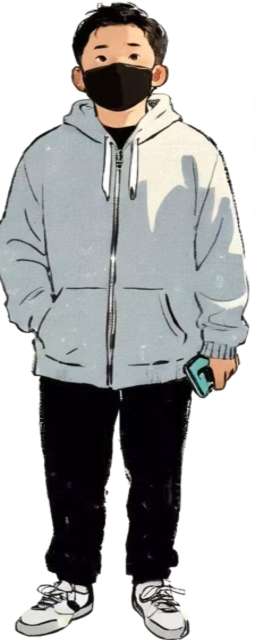
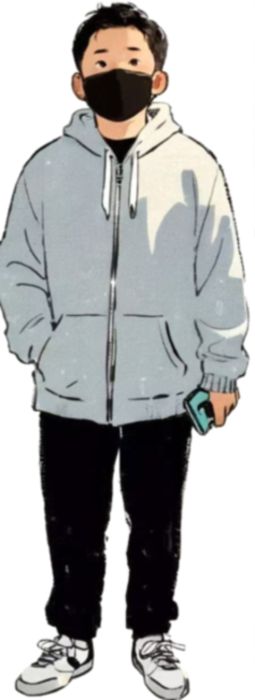
Resize the image

diff --git a/topFivePage/topFivePage.html b/topFivePage/topFivePage.html
@@ -25,34 +25,46 @@
             <li class="items" id="goldenRetriever">golden retriever<br>
                 <img src="img/goldenRetriever.jpg" alt="Light yellow fluffy 
             puppy with droopy ears and wearing a blue collar.">
-                <h4>Photo by Richard Burlton on Unsplash</h4>
+                <a href="https://unsplash.com/photos/golden-retriever-puppy-with-blue-collar-HTpmedSyZag">
+                    <h4>Photo by Richard Burlton on Unsplash</h4>
+                </a>
             </li>
 
             <li class="items" id="border-collie">border collie<br>
                 <img src="img/collie.jpg" alt="The dog's fur color is brown 
             and white with green grass and trees in the background">
-                <h4>Photo by Anna Dudkova on Unsplash</h4>
+                <a href="https://unsplash.com/photos/close-up-photography
+                -of-adult-brown-and-white-border-collie-md2_P9X7t4M">
+                    <h4>Photo by Anna Dudkova on Unsplash</h4>
+                </a>
             </li>
 
             <li class="items" id="samoyed">samoyed<br>
                 <img src="img/samoyed.jpg" alt="White dog lying on a rock by the 
             lake, blue-green water, surrounded by towering mountains, some 
             clouds in the sky">
-                <h4>Photo by Jf Brou on Unsplash</h4>
+                <a href="https://unsplash.com/photos/a-white-dog-sitting-on-a-rock
+                -formation-near-a-large-mountain-pond-915UJQaxtrk">
+                    <h4>Photo by Jf Brou on Unsplash</h4>
+                </a>
             </li>
 
             <li class="items" id="husky">husky<br>
                 <img src="img/siberianHusky.jpg" alt="The Husky sits on the ground
              with a red traction rope around his neck and looks up to the upper
               left. Lots of blinking lights in the background.">
-                <h4>Photo by Gelmis Bartulis on Unsplash</h4>
+                <a href="https://unsplash.com/photos/dog-looking-up-u4kVfgtloAM">
+                    <h4>Photo by Gelmis Bartulis on Unsplash</h4>
+                </a>
             </li>
 
             <li class="items" id="shiba-inu">shiba inu<br>
                 <img src="img/shibaInu.jpg" alt="A Shiba Inu wearing an orange
              carrier stands on a patch of ground covered in red leaves.
               In the background is a patch of trees with trunks painted white.">
-                <h4>Photo by Jaycee Xie on Unsplash</h4>
+                <a href="https://unsplash.com/photos/adult-short-coated-red-akita-inu-dog-on-field-TcByXvrIrno">
+                    <h4>Photo by Jaycee Xie on Unsplash</h4>
+                </a>
             </li>
 
             <li class="letter" id="D"> D </li>
@@ -75,21 +87,28 @@
                 <img src="img/chowMein.jpg" alt="The plate was filled with 
             chow mein noodles covered with bok choy, red peppers, scallions
              and broccoli">
-                <h4>Photo by Focused on You on Unsplash</h4>
+                <a href="https://unsplash.com/photos/a-plate-of-noodles-with-broccoli
+                -and-other-vegetables-grDcbeK2MRY">
+                    <h4>Photo by Focused on You on Unsplash</h4>
+                </a>
             </li>
 
             <li class="food-card">barbecue<br>
                 <img src="img/barbecue.jpg" alt="Chunks of meat, red peppers, 
             green peppers and onions are threaded on metal skewers covered 
             with red-orange seasoning">
-                <h4>Photo by Dolores Preciado on Unsplash</h4>
+                <a href="https://unsplash.com/photos/cooked-food-on-stainless-steel-tray-7a--Ad6mkNE">
+                    <h4>Photo by Dolores Preciado on Unsplash</h4>
+                </a>
             </li>
 
             <li class="food-card">cereal<br>
                 <img src="img/cereal.jpg" alt="The bowl is filled with cereal and 
             nuts. There is a golden spoon on the side of the bowl with some 
             cereal and coconut flakes scattered around it.">
-                <h4>Photo by Rachael Gorjestani on Unsplash</h4>
+                <a href="https://unsplash.com/photos/bowl-beside-brass-colored-ladle-P18ZFezFmLQ">
+                    <h4>Photo by Rachael Gorjestani on Unsplash</h4>
+                </a>
             </li>
 
             <li class="food-card">ice cream<br>
@@ -97,14 +116,18 @@
             placed in metal containers. The colors of the ice cream were light 
             yellow, dark brown, dark yellow, and grayish brown. The dark brown 
             ice cream had chopped nuts on it.">
-                <h4>Photo by Erwan Hesry on Unsplash</h4>
+                <a href="https://unsplash.com/photos/ice-cream-on-black-tray-OlQ-NaEyVmQ">
+                    <h4>Photo by Erwan Hesry on Unsplash</h4>
+                </a>
             </li>
-            
+
             <li class="food-card">fries<br>
                 <img src="img/fries.jpg" alt="A bunch of fries, with a little green
              fork sticking in the fries and some white sauce in the upper right
               corner">
-                <h4>Photo by Gilly on Unsplash</h4>
+                <a href="https://unsplash.com/photos/potato-fries-YOW3de4wEDk">
+                    <h4>Photo by Gilly on Unsplash</h4>
+                </a>
             </li>
 
             <p>These foods are in my top 5 favorites because of their great taste and

diff --git a/index.html b/index.html
@@ -61,7 +61,7 @@
         </div>
 
         <div class="summary">
-            <h3>Summary</h3>
+            <h3>About Me</h3>
             <p>He is from the East of Asia, China, and is an Asian with
                 Chinese ancestry. His first and most common language is Chinese,
                 and English is his second language, making him bilingual.
@@ -88,30 +88,6 @@
                 are immensely fascinating.
             </p>
         </div>
-        <!--
-        <h1>jiqing liu</h1>
-        <img src="img/me.jpg" alt="Lime green water, yellow sandy beaches. 
-        A Chinese man wearing a gray shirt, black pants with some white stripes. 
-        Wearing a black mask.">
-        <p>I am a student at San Francisco State University and I am in my 4th
-            year of college. My major is computer science, and the programming
-            languages I have been exposed to/briefly know are Java, HTML, css,
-            JavaScript, c++, python. The programming language I am most familiar
-            with is Java. I am from the east of Asia, China. I am Asian and all
-            my ancestors are Chinese. My first language is Chinese, which is
-            my usual language. English is my second language, so I am a
-            bilingual. I currently live in Oakland, which is about 18 kilometers
-            away from San Francisco. My hobbies are reading comic books, watching
-            videos online, and playing video games. Although they all tend to be
-            virtual worlds, I consider them as a relatively low-cost form of
-            entertainment. However what really attracts me to them is their design,
-            creativity, and so on. This includes the activities and rewards that
-            the game officially puts in place based on holidays, with very
-            creative visual presentations designed in both. My family has jobs
-            and I am a full time student, so cooking duties are usually my
-            responsibility. This gives me some cooking skills like deep frying,
-            boiling, steaming, sauteing and stir frying. I think nature is
-            the best artist, the green forests and the blue sea are fascinating.</p>-->
     </section>
 
     <footer>

diff --git a/topFivePage/css/t5.css b/topFivePage/css/t5.css
@@ -134,7 +134,7 @@ li {
     color: #fffefb;
     align-items: center;
     justify-content: center;
-    font-size: 200px;
+    font-size: 250px;
     width: 100%;
 }
 
@@ -145,10 +145,18 @@ li {
     text-align: center;
 }
 
+.food-card-container h2 {
+    font-size: 60px;
+    text-align: center;
+}
+
 .food-card {
+    font-size: 25px;
+    font-weight: 600px;
+    text-transform: uppercase;
     display: inline-block;
     width: 15%;
-    height: 300px;
+    height: 350px;
     margin: 10px;
     box-shadow: 0 4px 8px rgba(0, 0, 0, 0.1);
     border-radius: 8px;
@@ -168,12 +176,6 @@ li {
     font-size: 15px;
 }
 
-.food-card p {
-    margin: 5px 0 10px;
-    font-size: 15px;
-    color: #666;
-}
-
 footer {
     flex: 0 0 10%;
 }
@@ -183,4 +185,3 @@ footer {
     bottom: 20px;
     right: 20px;
 }
-

diff --git a/css/home.css b/css/home.css
@@ -39,13 +39,14 @@ section {
     grid-template-columns: repeat(3, 1fr);
     grid-template-rows: repeat(5, 1fr);
     width: 100%;
-    height: 90%;
+    height: 100%;
 }
 
 section .me {
     grid-area: 1 / 2 / 6 / 3;
     width: 100%;
     height: 100%;
+    margin-left: 5%;
     background-image: url(../img/me2.png);
     background-repeat: no-repeat;
     background-position: center;
@@ -63,7 +64,8 @@ section .aboutMe {
     align-items: center;
     width: 100%;
     height: 100%;
-    margin-left: -160px;
+    margin-top: 10%;
+    
 }
 
 section .box {
@@ -108,7 +110,7 @@ section .box {
 
 .box:hover,
 .summary:hover {
-    animation: shake 0.8s ease-in-out infinite;
+    animation: shake 0.5s ease-in-out;
 }
 
 @keyframes shake {

diff --git a/inspirationPage/inspirationPage.html b/inspirationPage/inspirationPage.html
@@ -51,7 +51,7 @@
             <div class="card" id="card3">
                 <a href="https://en.wikipedia.org/wiki/Liu_Xiao_Ling_Tong">
                     <h2>liu xiaolingtong</h2>
-                    <img src="img/xiao.jpg" alt="Actors played monkeys; dressed in costumes, 
+                    <img src="img/xiao.jpeg" alt="Actors played monkeys; dressed in costumes, 
                                 with golden crowns, and holding a long stick; gazing at us">
                 </a>
                 <p>

diff --git a/inspirationPage/css/ins.css b/inspirationPage/css/ins.css
@@ -60,7 +60,7 @@ a:hover {
 
 #card3 {
     grid-area: 1 / 3 / 5 / 4;
-    background-image: url(../img/xiao.jpg);
+    background-image: url(../img/xiao.jpeg);
     background-size: cover;
     background-position: center;
     background-repeat: no-repeat;
